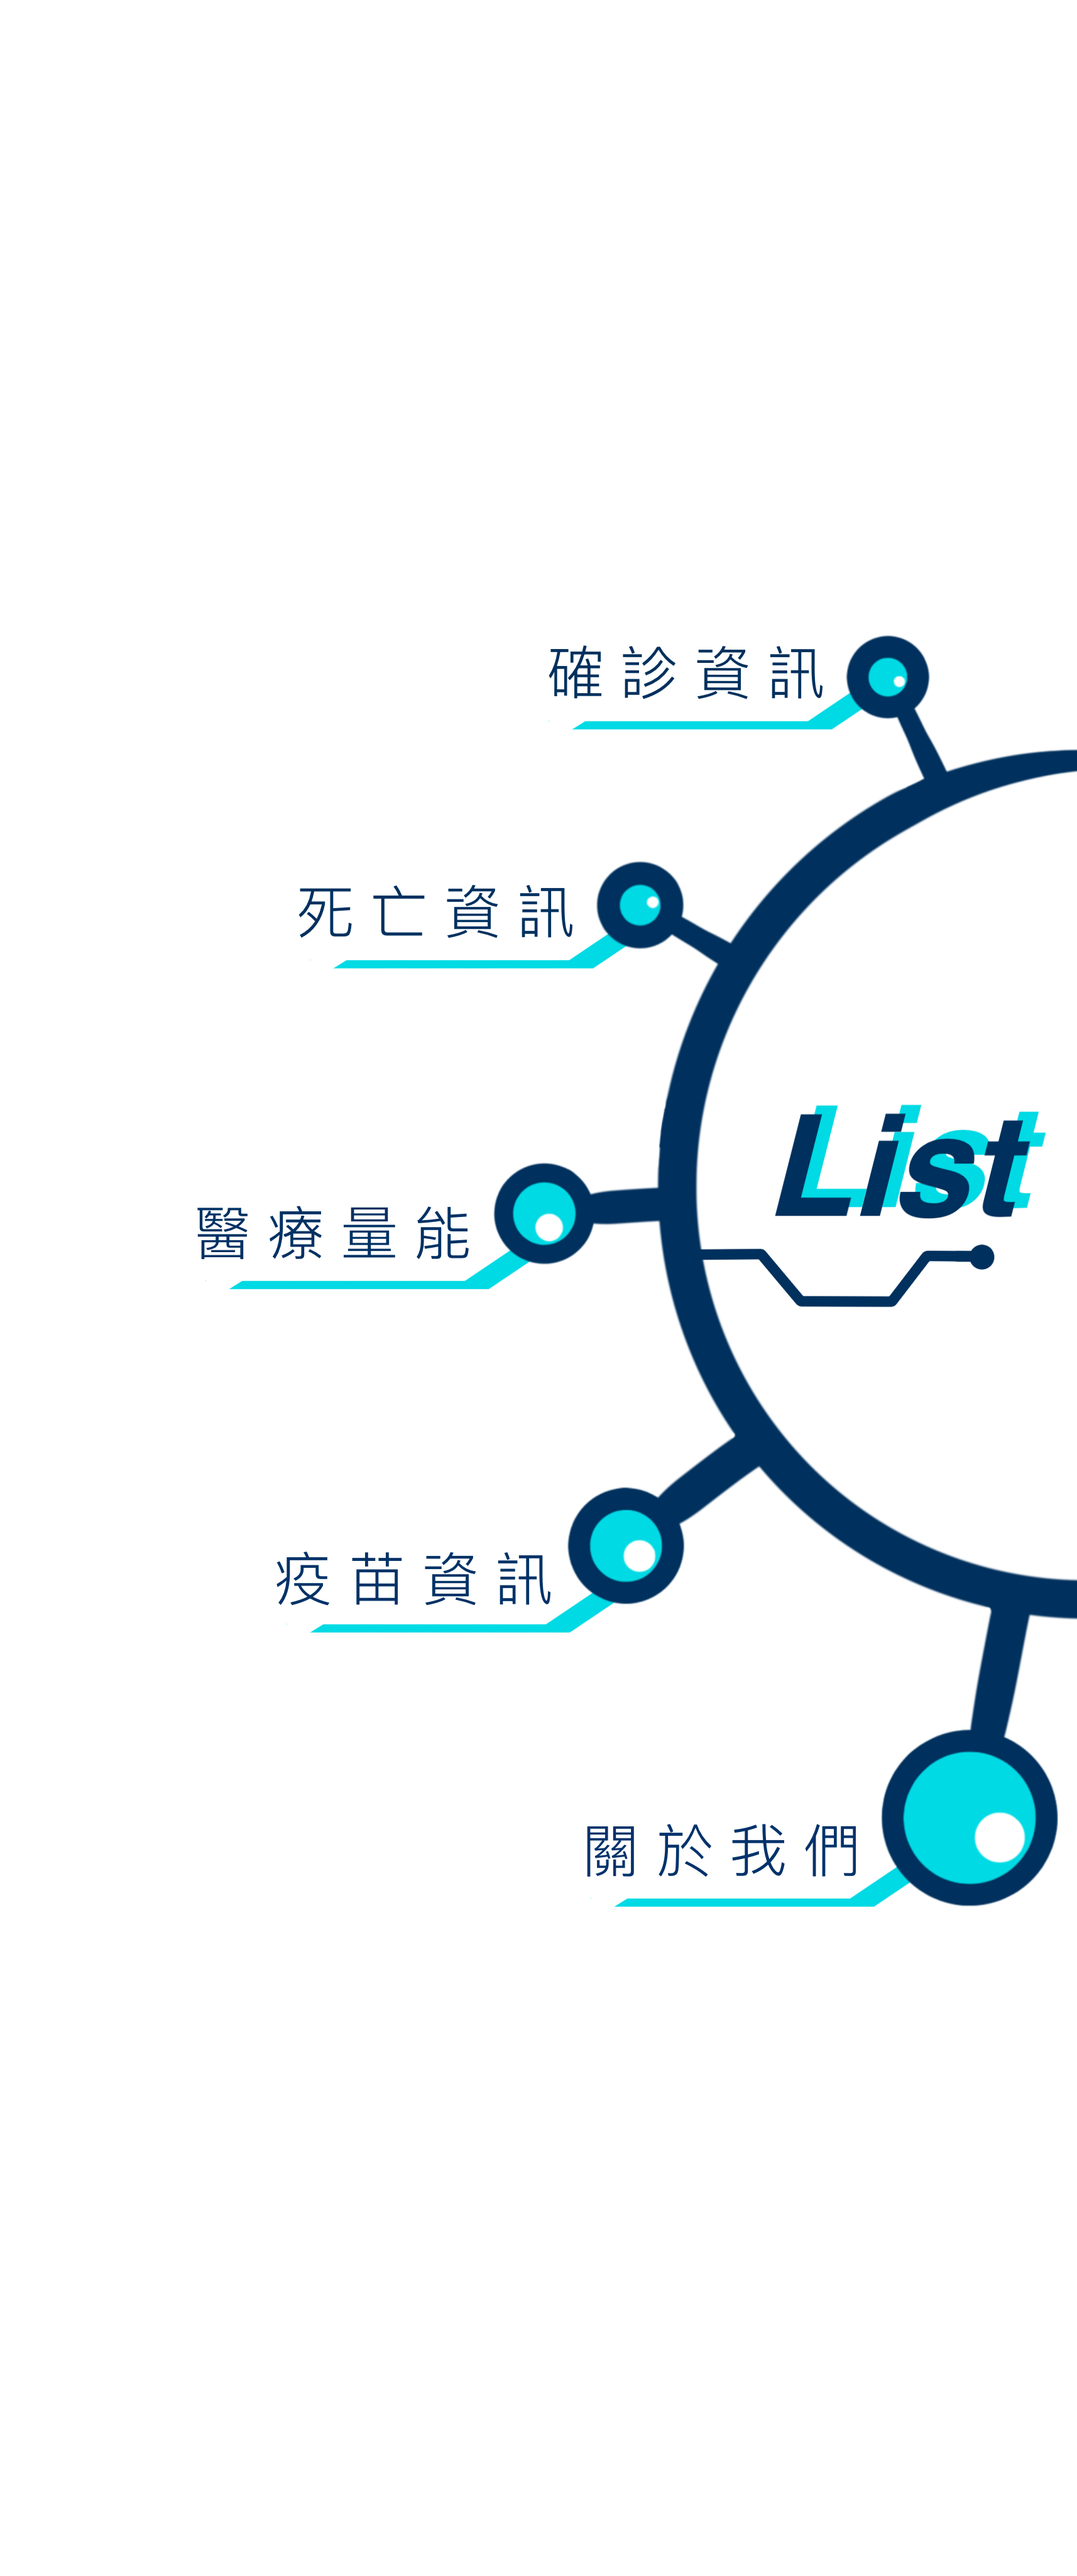
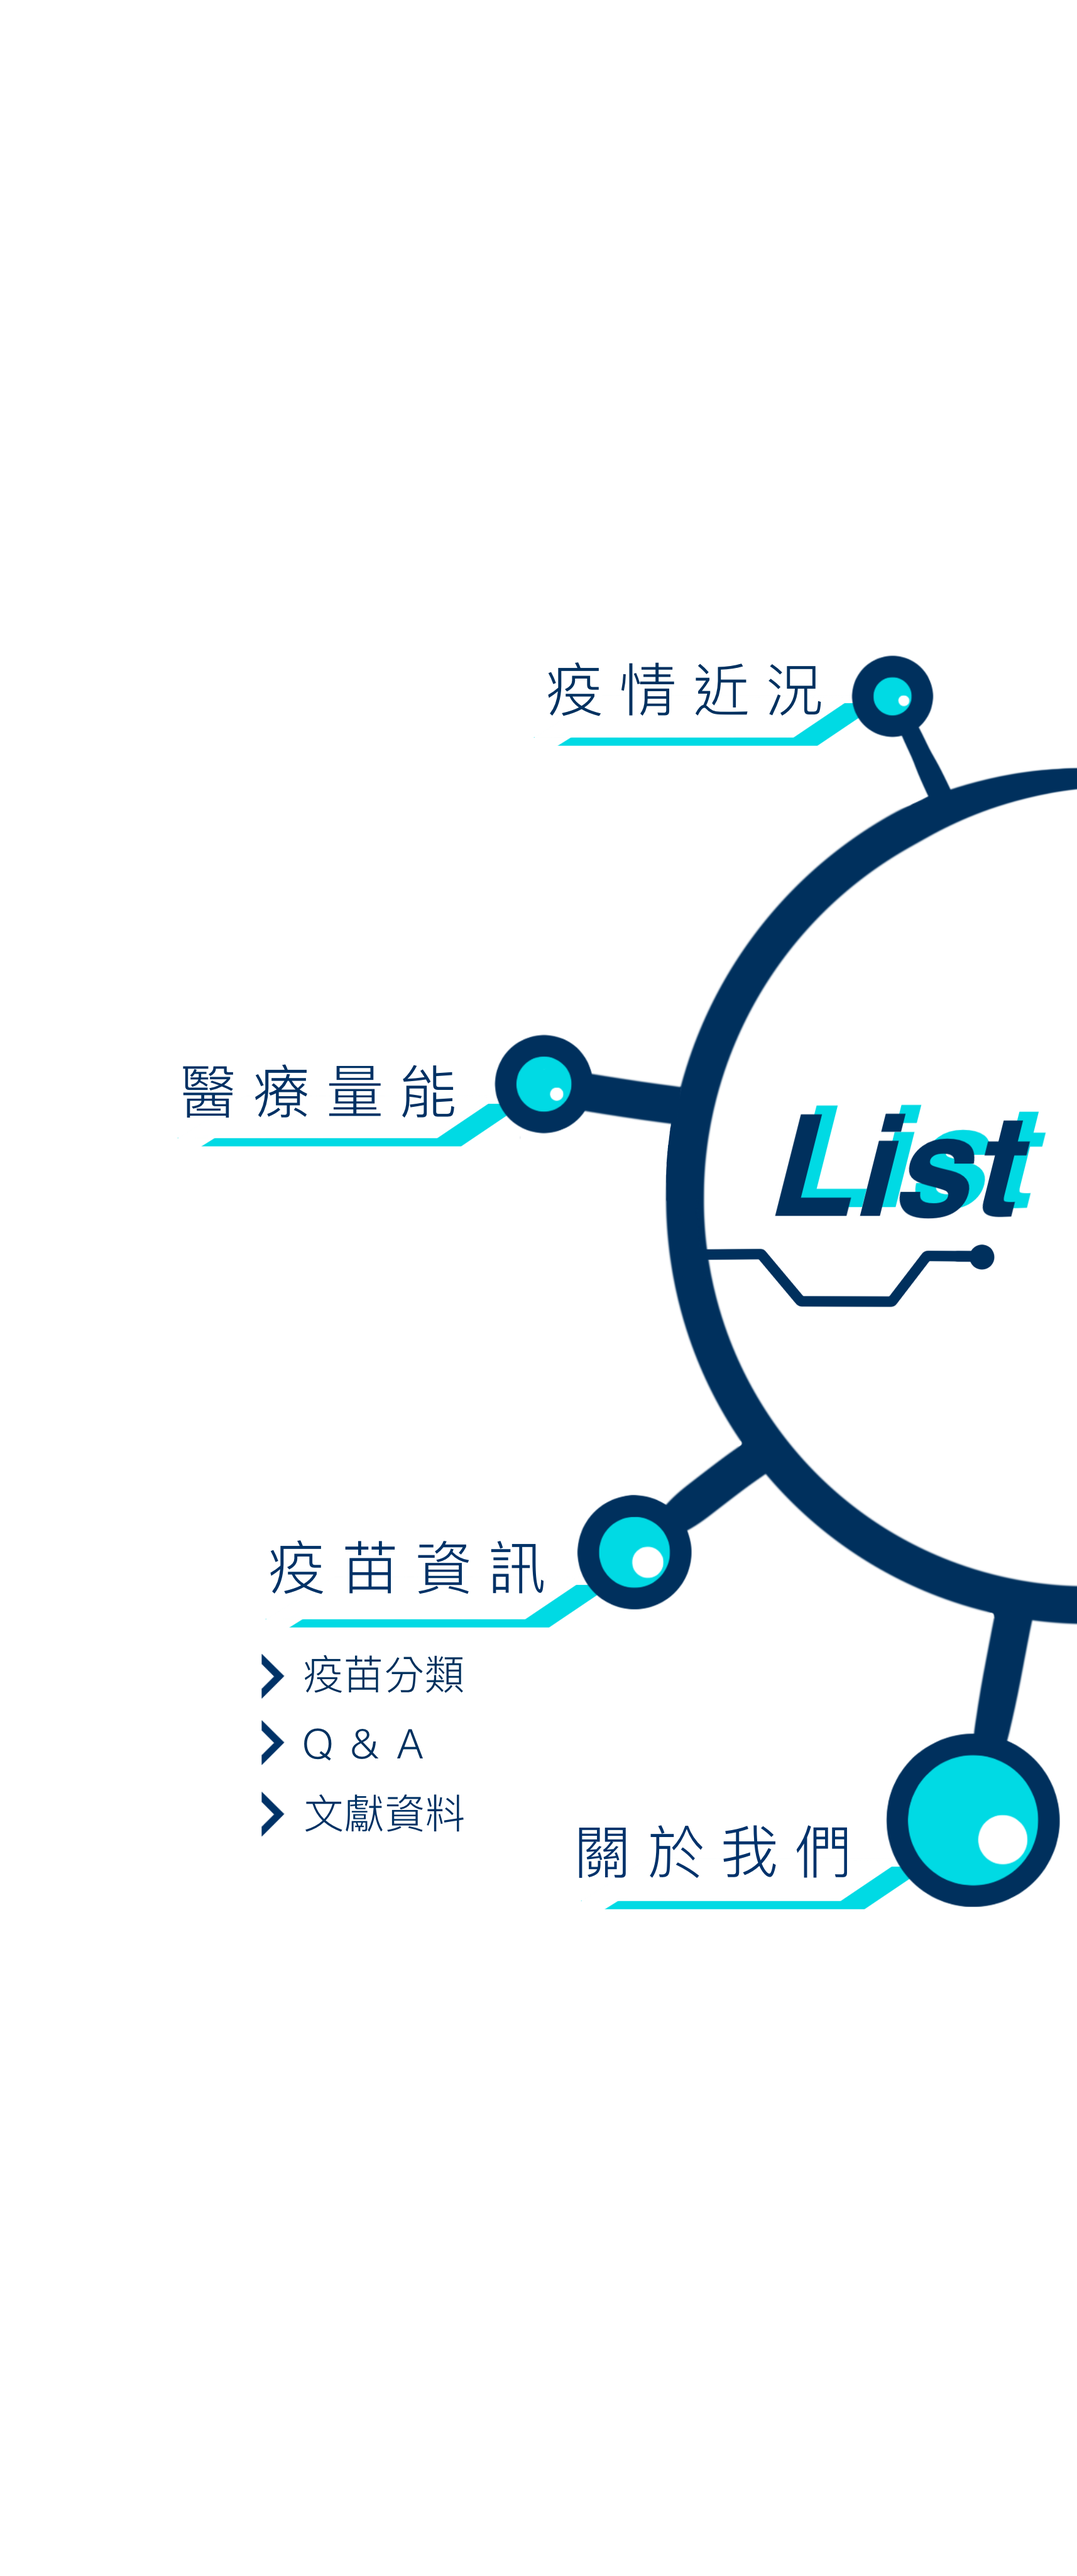
[modify] menu pic

diff --git a/src/Containers/MainPage.jsx b/src/Containers/MainPage.jsx
@@ -23,11 +23,13 @@ const MainPage = () => {
     const handleClickMenu = (e) => {
         let x = Math.round((e.clientX - e.target.offsetLeft) / e.target.clientWidth * 100)
         let y = Math.round((e.clientY - e.target.offsetTop) / e.target.clientHeight * 100)
-        if (x>49 && x<77 && y>25 && y<29) console.log("確診資訊")
-        else if (x>26 && x<54 && y>33 && y<38) console.log("死亡資訊")
-        else if (x>16 && x<45 && y>45 && y<51) console.log("醫療量能")
-        else if (x>24 && x<52 && y>59 && y<64) console.log("疫苗資訊")
-        else if (x>53 && x<81 && y>69 && y<75) console.log("關於我們")
+        if (x>49 && x<88 && y>25 && y<29) console.log("疫情近況")
+        else if (x>16 && x<55 && y>41 && y<45) console.log("醫療量能")
+        else if (x>28 && x<43 && y>64 && y<66) console.log("疫苗分類")
+        else if (x>28 && x<50 && y>=67 && y<=68) console.log("Q & A")
+        else if (x>28 && x<43 && y>=70 && y<=71) console.log("文獻資料")
+        else if (x>52 && x<83 && y>70 && y<75) console.log("關於我們")
+        else if (x>82 && x<98 && y>67 && y<74) console.log("關於我們")
         else setSelect(false)
     }
 

diff --git a/src/App.css b/src/App.css
@@ -39,7 +39,7 @@
 .menu {
   position: fixed;
   right: 0;
-  width: 30vmin;
+  width: 45vmin;
   height: auto;
   z-index: 900;
   cursor: pointer;
